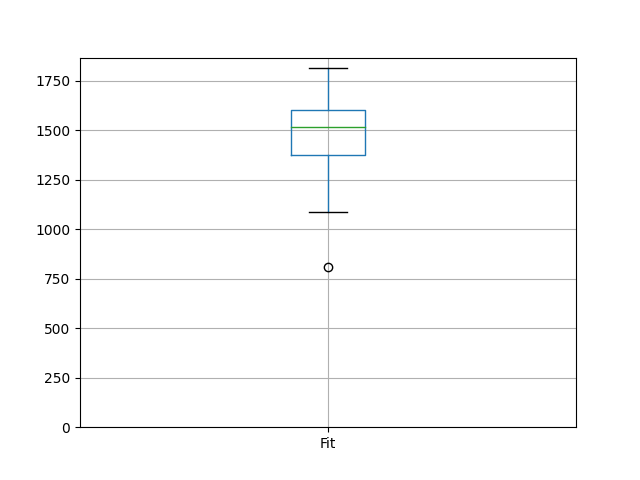
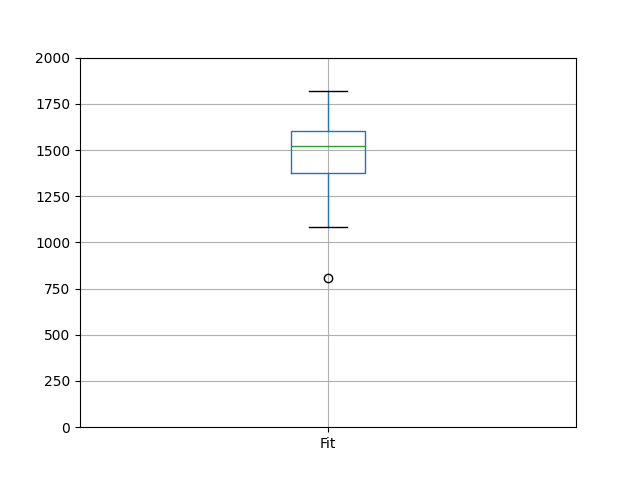
update boxplots

diff --git a/analyse.py b/analyse.py
@@ -38,22 +38,22 @@ def create_comparison_plots(data_loc):
     df_results = df_results[~df_results.Config.str.match('.*random.*|.*shuffle.*|.*uniform.*')]
     empty = df_results[df_results.Config.str.match('.*empty.*')]
     empty.boxplot(column='Fit')
-    plt.ylim(ymin=0)
+    plt.ylim(ymin=0, ymax=2000)
     plt.savefig('charts/empty_boxplot.png')
     plt.clf()
     onePicked = df_results[df_results.Config.str.match('.*onePicked.*')]
     onePicked.boxplot(column='Fit')
-    plt.ylim(ymin=0)
+    plt.ylim(ymin=0, ymax=2000)
     plt.savefig('charts/onePicked_boxplot.png')
     plt.clf()
     onePoint = df_results[df_results.Config.str.match('.*onePoint.*')]
     onePoint.boxplot(column='Fit')
-    plt.ylim(ymin=0)
+    plt.ylim(ymin=0, ymax=2000)
     plt.savefig('charts/onePoint_boxplot.png')
     plt.clf()
     twoPoint = df_results[df_results.Config.str.match('.*twoPoint.*')]
     twoPoint.boxplot(column='Fit')
-    plt.ylim(ymin=0)
+    plt.ylim(ymin=0, ymax=2000)
     plt.savefig('charts/twoPoint_boxplot.png')
     plt.clf()
     twoPoint.to_csv('two_point_test.csv', mode='w')
